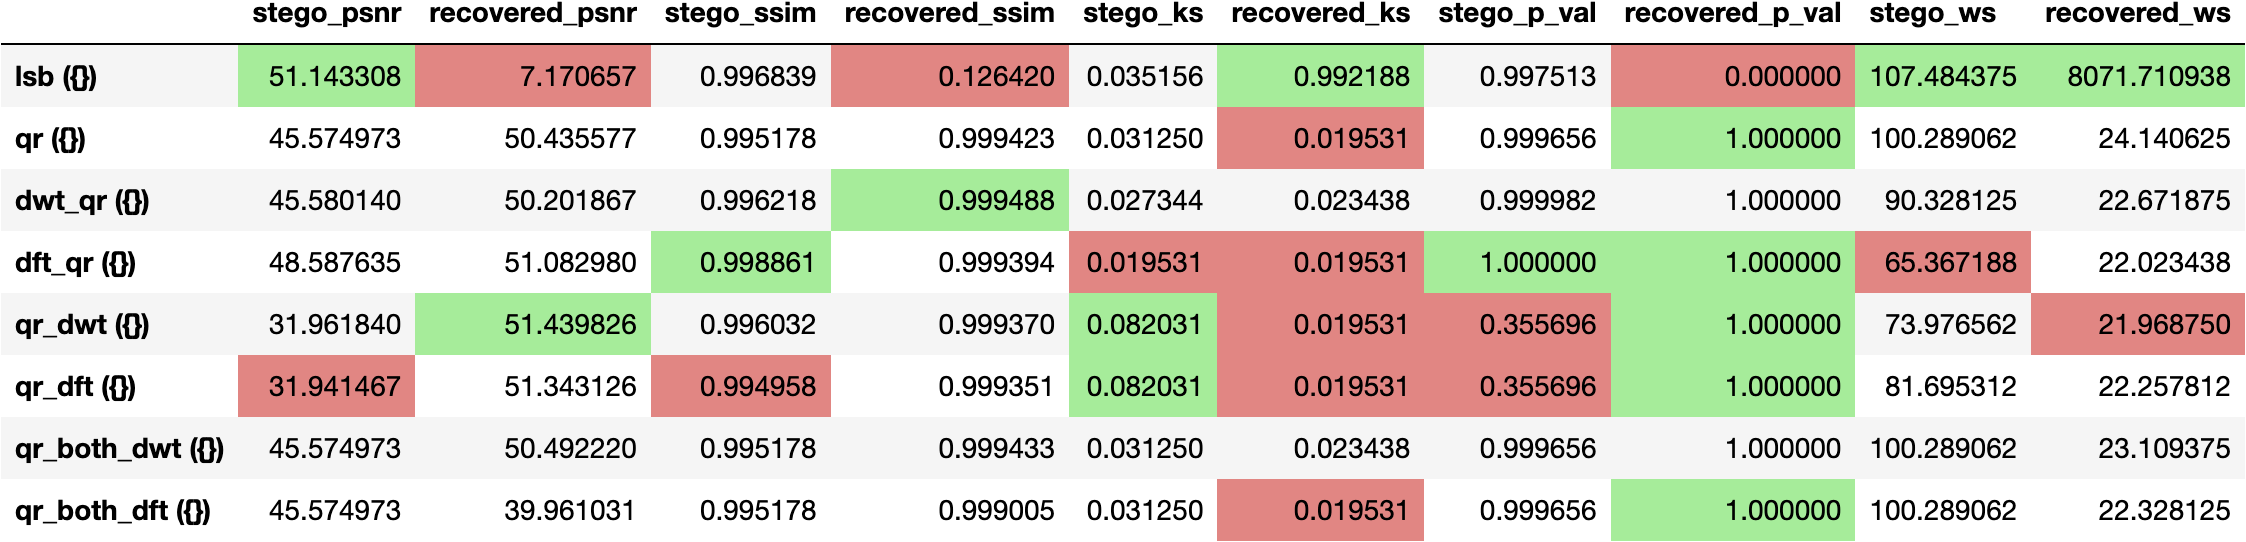
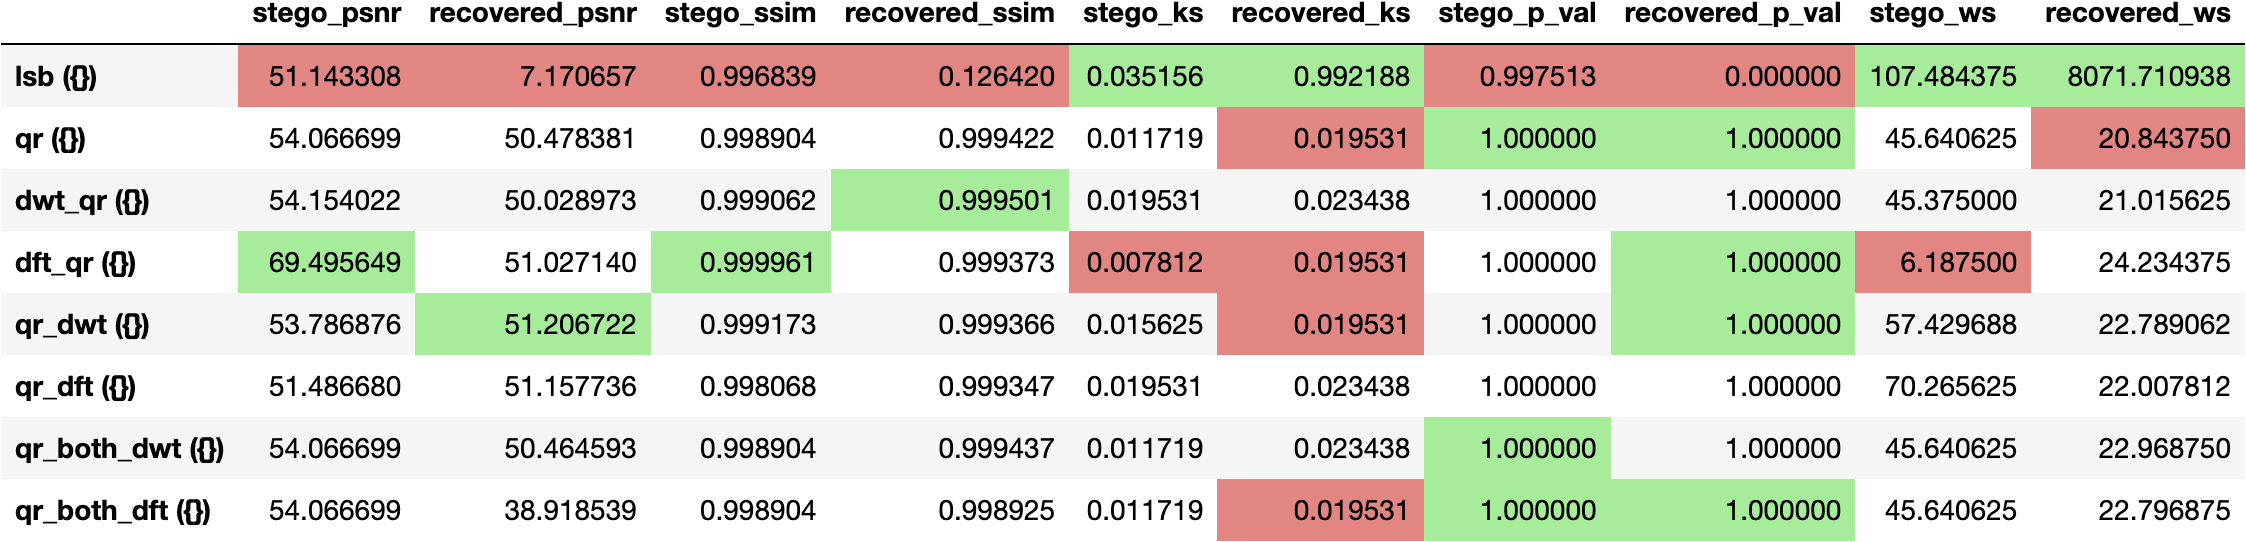
changed alpha to .001

diff --git a/pipeline.py b/pipeline.py
@@ -59,7 +59,7 @@ def lsb(cover, secret):
     stego = stego/255
     return stego, recovered
 
-def qr_only(cover, secret, alpha=0.01):
+def qr_only(cover, secret, alpha=0.001):
     qc, rc = np.linalg.qr(cover)
     qs, rs = np.linalg.qr(secret)
 
@@ -74,7 +74,7 @@ def qr_only(cover, secret, alpha=0.01):
     return stego, recovered
 
 
-def dwt_qr(cover, secret, alpha=0.01, wavelet="db1"):
+def dwt_qr(cover, secret, alpha=0.001, wavelet="db1"):
     """QR method with Discrete Wavelet Transform (DWT)"""
     LL, other_cover = pywt.dwt2(cover, wavelet)
     qc, rc = np.linalg.qr(LL)
@@ -97,7 +97,7 @@ def dwt_qr(cover, secret, alpha=0.01, wavelet="db1"):
     return stego, recovered
 
 
-def fwt_qr(cover, secret, alpha=0.01):
+def fwt_qr(cover, secret, alpha=0.001):
     """QR method with Discrete FOurier Transform (DFT)"""
     LL = np.fft.fft2(cover)
     qc, rc = np.linalg.qr(LL)
@@ -120,7 +120,7 @@ def fwt_qr(cover, secret, alpha=0.01):
     return stego, recovered
 
 
-def qr_dwt(cover, secret, alpha=0.01, wavelet="db1"):
+def qr_dwt(cover, secret, alpha=0.001, wavelet="db1"):
     """QR method with DWT after QR decomposition (histo paper)"""
     # QR decomposition of secret image
     qs, rs = np.linalg.qr(secret)
@@ -150,7 +150,7 @@ def qr_dwt(cover, secret, alpha=0.01, wavelet="db1"):
     return stego, recovered
 
 
-def qr_fwt(cover, secret, alpha=0.01):
+def qr_fwt(cover, secret, alpha=0.001):
     """QR method with DWT after QR decomposition (histo paper)"""
     # QR decomposition of secret image
     qs, rs = np.linalg.qr(secret)
@@ -173,7 +173,7 @@ def qr_fwt(cover, secret, alpha=0.01):
     return stego, recovered
 
 
-def qr_both_dwt(cover, secret, alpha=0.01, wavelet='db1'):
+def qr_both_dwt(cover, secret, alpha=0.001, wavelet='db1'):
     # QR decomposition of cover image
     qc, rc = np.linalg.qr(cover)
     # QR decomposition of secret image
@@ -206,7 +206,7 @@ def qr_both_dwt(cover, secret, alpha=0.01, wavelet='db1'):
     return stego, recovered
 
 
-def qr_both_fwt(cover, secret, alpha=0.01):
+def qr_both_fwt(cover, secret, alpha=0.001):
     """QR method with FFT after QR decomposition (both)"""
     # QR decomposition of cover image
     qc, rc = np.linalg.qr(cover)
